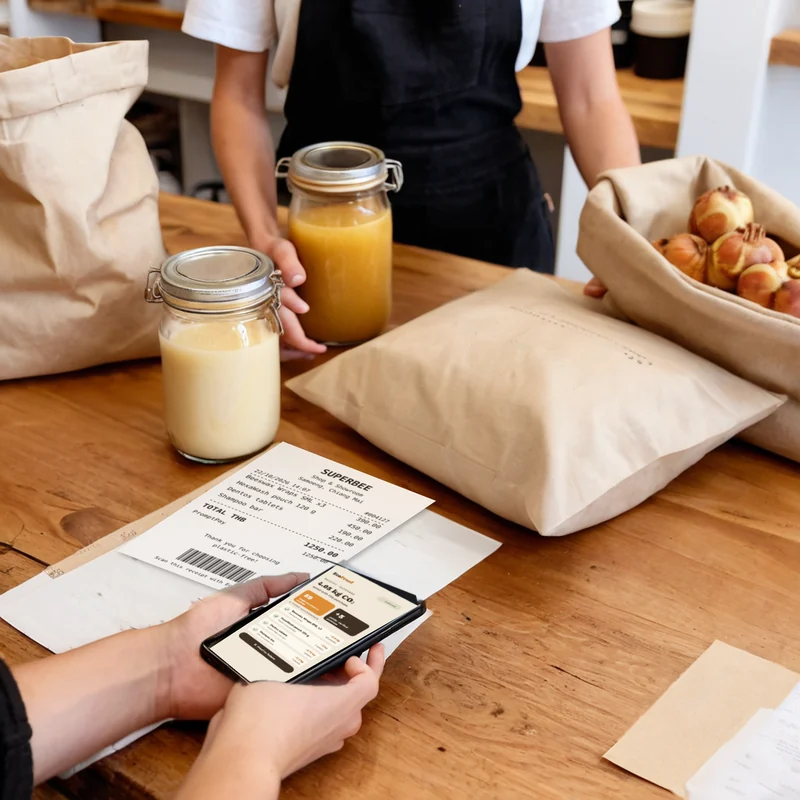
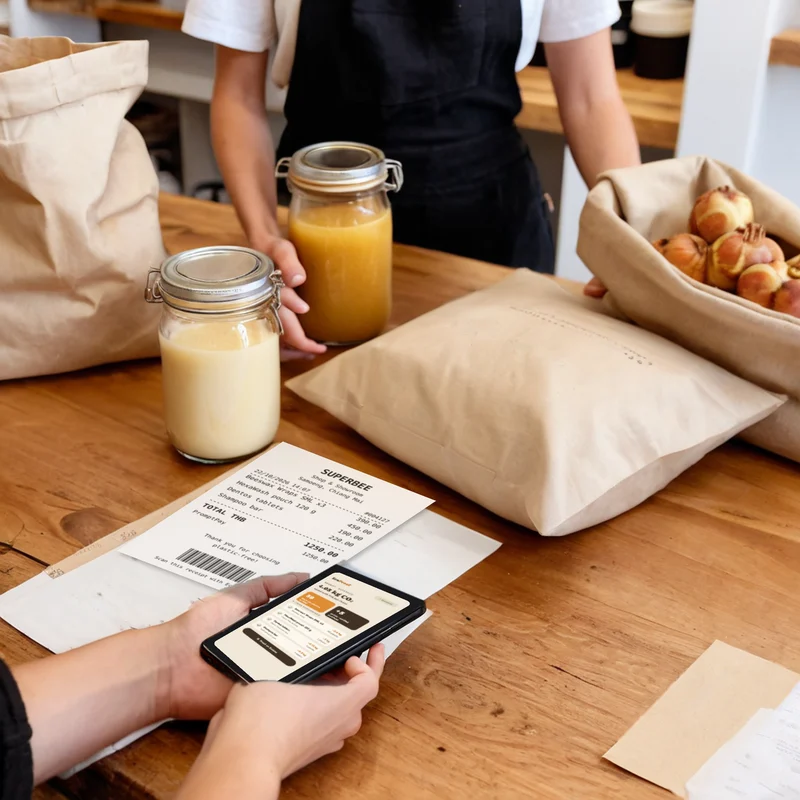
Landing pictures: screenshot sits inside the phone on the eco shop tile; hotel postcard stands upright on its holder
Claude-Session: https://claude.ai/code/session_01HWHP3iugw8gkvvKKS5vpBj

Changed region(s): [[0.25, 0.6875, 0.5312, 0.875]]

diff --git a/art/doors/v2/compose.py b/art/doors/v2/compose.py
@@ -4,7 +4,7 @@ the SuperBee receipt and the EcoProof screen onto the eco store counter (203, wi
 repainted as clean paper from a lighting fit of its own pixels before the card is printed on it (multiply). Corners read off gridded zoom
 crops. Usage: compose.py <hotel|restaurant|store>. Run with the WebUI venv python (numpy, cv2) → door_<name>.png (800x800)."""
 import numpy as np, cv2, pathlib, sys
-from PIL import Image
+from PIL import Image, ImageDraw
 D = pathlib.Path(__file__).parent
 CARD = Image.open(D/"../../steps/connect/card.png").convert("RGB")  # 1200x800, white
 SS = 2  # warp at 2x, downsample at the end
@@ -29,9 +29,21 @@ SCENES = {
               "receipt": [(362,565),(558,641),(348,781),(149,705)],
               "hands": [(0,700),(260,725),(420,735),(560,760),(560,1024),(0,1024)],  # where skin colour really is a hand (kraft paper reads as skin)
               "phone": [(440,716),(550,768),(322,886),(252,830)],  # the whole phone with its bezel, lies over the receipt
-              "screen": [(433,722),(535,775),(338,888),(268,830)],  # TL TR BR BL: portrait, top at the far end; BR runs under the fingers
-              "bezel": [(433,722),(535,775),(532,762),(404,712)]},  # the glass strip between the screen's top edge and the rim, painted as bezel
+              # the phone's glass, read off a gridded 4x zoom (TL TR BR BL: portrait, top at the far end; BR lies under the fingers)
+              "glass": [(430,725),(541,771),(337,888),(262,822)]},
 }
+
+def inset(quad, d):
+    """The quad with every edge moved inward by d pixels (outward if negative). Corners clockwise from top left."""
+    q = np.float64(quad); n = len(q); lines = []
+    for i in range(n):
+        p, r = q[i], q[(i+1) % n]; e = (r-p)/np.linalg.norm(r-p); nrm = np.array([-e[1], e[0]])  # inward for clockwise corners in image coordinates
+        lines.append((p + nrm*d, e))
+    out = []
+    for i in range(n):
+        (p1, e1), (p2, e2) = lines[i-1], lines[i]
+        t = np.linalg.solve(np.array([e1, -e2]).T, p2-p1)[0]; out.append(tuple(p1 + e1*t))
+    return out
 
 def quad_mask(shape, pts, s=1):
     m = np.zeros(shape[:2], np.uint8); cv2.fillPoly(m, [np.int32(np.round(np.array(pts)*s))], 255); return m
@@ -98,14 +110,17 @@ else:
     keep = cv2.GaussianBlur((sk & quad_mask(big.shape, S["hands"], SS)).astype(np.float32)/255, (0,0), 1.2)[..., None]
     phone = cv2.GaussianBlur(quad_mask(big.shape, S["phone"], SS).astype(np.float32)/255, (0,0), 1.2)[..., None]
     a = a*(1-np.maximum(keep, phone)); big = big*(1-a) + rgb*a
-    # 3. the EcoProof screen in the phone, under the fingertip
+    # 3. the EcoProof screen in the phone, under the fingertip. The glass is painted as the phone's own near-black first (a little past
+    #    its far edge, where the repainted hand left no rim), then the screen goes inside it with an even bezel and rounded corners.
+    body = cv2.GaussianBlur(quad_mask(big.shape, inset(S["glass"], -2.5), SS).astype(np.float32)/255, (0,0), 1.0)[..., None]*(1-keep)
+    big = big*(1-body) + np.float32([26, 26, 29])*body
     scr = Image.open(D/"screen.png").convert("RGB")
-    rgb, a = warp(scr, S["screen"], size)
+    quad = inset(S["glass"], 5.5)
+    rgb, _ = warp(scr, quad, size)
+    rnd = Image.new("L", scr.size, 0); ImageDraw.Draw(rnd).rounded_rectangle((0, 0, scr.width-1, scr.height-1), radius=round(scr.width*0.07), fill=255)
+    a = cv2.warpPerspective(np.asarray(rnd, np.float32), cv2.getPerspectiveTransform(np.float32([(0,0),(scr.width,0),(scr.width,scr.height),(0,scr.height)]), np.float32(quad)*SS), size, flags=cv2.INTER_LINEAR)[..., None]/255
     rgb = cv2.GaussianBlur(rgb, (0,0), 0.8)*0.95 + 10
     a = a*(1-keep); big = big*(1-a) + rgb*a
-    # 4. close the phone at the top: the glass strip above the screen becomes bezel, in the phone's own near-black
-    bz = cv2.GaussianBlur(quad_mask(big.shape, S["bezel"], SS).astype(np.float32)/255, (0,0), 1.0)[..., None]*(1-keep)
-    big = big*(1-bz) + np.float32([26, 26, 29])*bz
 
 out = Image.fromarray(big.clip(0,255).astype(np.uint8)).resize((800, 800), Image.LANCZOS)
 out.save(D/f"door_{key}.png"); print("wrote", f"door_{key}.png")

diff --git a/art/postcard/gen.py b/art/postcard/gen.py
@@ -14,6 +14,7 @@ PROMPTS = {
  "hotel": "photo of a calm boutique resort hotel room in northern Thailand, " + CARD + " on a teak bedside table, next to it a glass carafe of water and a glass, behind it a bed with crisp white linen and a window with a green garden view softly out of focus, soft morning light, " + COMMON,
  "hotel2": "close-up photo of a teak bedside table in a calm boutique resort hotel room in northern Thailand, on the table " + CARD + ", next to the card a glass carafe of water, behind it softly out of focus a bed with crisp white linen and a window with a green garden view, soft morning light, " + COMMON,
  "reception": "photo of the wooden reception desk of a boutique resort hotel in northern Thailand, " + CARD + ", beside it a brass service bell and a room key with a wooden tag, behind it the open lobby with rattan armchairs, tropical plants and a terrace with a green garden view softly out of focus, " + COMMON,
+ "reception2": "photo of the wooden reception desk of a boutique resort hotel in northern Thailand, sharply in focus in the foreground a single tall portrait format plain blank white postcard standing perfectly upright and vertical in the slot of a small low wooden block card holder, seen straight from the front at eye level, the empty white card is completely blank, nothing written on it, the card is large in the frame, beside it a brass service bell, behind it the open lobby with rattan armchairs, tropical plants and a terrace with a green garden view softly out of focus, " + COMMON,
  "store": "photo of the wooden counter of a small zero-waste eco shop, " + CARD + ", beside it glass refill jars and a folded cotton tote bag, behind it wooden shelves with jars, soap bars and brushes softly out of focus, " + COMMON,
 }
 NEG = "text, letters, writing, logo, qr code, barcode, icons, picture frame, photo frame, landscape format card, folded card, tent card, two cards, cartoon, illustration, painting, 3d render, cgi, blurry, low quality, deformed, hands, watermark, plastic bottles, green walls, neon"

diff --git a/art/postcard/compose.py b/art/postcard/compose.py
@@ -12,7 +12,7 @@ SCENES = {
     # scene file, a point on the blank card, the postcard to print, and optionally corners by hand (TL TR BR BL)
     "cafe": {"scene": "cafe_403.png", "at": (242, 640), "card": "card_demo-cafe_web.png"},
     "restaurant": {"scene": "restaurant_403.png", "at": (232, 620), "card": "card_demo-restaurant_web.png"},
-    "hotel": {"scene": "reception_426.png", "at": (440, 640), "card": "card_demo-hotel_web.png", "erase": [(383, 446, 28, 40)]},
+    "hotel": {"scene": "reception2_436.png", "at": (486, 580), "card": "card_demo-hotel_web.png"},
     "store": {"scene": "store_402.png", "at": (516, 520), "card": "card_demo-eco-shop_web.png"},
 }
 

diff --git a/CLAUDE.md b/CLAUDE.md
@@ -96,9 +96,9 @@ on Solana. For sustainable shops, cafés, markets and online brands.
   caches bust; current `v4`. A scroll parallax was tried and dropped (not seen as moving, blurred the strip). The Bee Guardian cutout (`public/landing/bee.webp`, from `art/v2/ranks/sentinel/sentinel_card.png`) peeks in. The
   card-fan hero (`components/landing/HeroArt.tsx`, `public/landing/cards/*.webp`, 2x of 300x420, from `art/v2/compositor/samples/`, SVG stamp
   rings) stays behind `NEXT_PUBLIC_LANDING_HERO=cards`. Paper grain and stamps are CSS. Buildings inpainted onto the island (`inpaint.py`,
-  `v3_*.py`) never matched; the island stays as generated. The earlier SD flat-lay hero (`art/hero-r1/`, `art/v2/hero/`) was dropped for mixing two styles; the owner-door photos (`public/landing/doors/v2/`). Since 2026-11-18 every picture of a place shows the real A6 postcard, not a bare QR card (Pola): `art/postcard/` holds the recipe. `gen.py <scene> <seeds>` renders epicrealismXL scenes with one blank portrait card on a wooden stand (café 403, restaurant 403, hotel reception 426, eco store 402 are the picks; a card on a hotel bedside table never stood up, so the hotel is a reception desk); the card is the app's own print of a local demo place (`brave --headless --print-to-pdf http://localhost:3000/place/<id>?size=a4`, `pdftoppm -r 150 -png`; local-only places demo-cafe, demo-restaurant, demo-hotel, demo-eco-shop), `web_qr.py` swaps its QR for one to https://ecoproof.app, and `compose.py <cafe|restaurant|hotel|store>` finds the blank card and multiplies the postcard onto it → `out_<key>.png`. In use: café = `steps/v2/connect.webp`, restaurant = `doors/v2/coffee.webp`, hotel = `doors/v2/hotel.webp`; the store one (`out_store.png`) is made but not placed. The store door keeps the earlier receipt photo
+  `v3_*.py`) never matched; the island stays as generated. The earlier SD flat-lay hero (`art/hero-r1/`, `art/v2/hero/`) was dropped for mixing two styles; the owner-door photos (`public/landing/doors/v2/`). Since 2026-11-18 every picture of a place shows the real A6 postcard, not a bare QR card (Pola): `art/postcard/` holds the recipe. `gen.py <scene> <seeds>` renders epicrealismXL scenes with one blank portrait card on a wooden stand (café 403, restaurant 403, hotel `reception2` 436, eco store 402 are the picks; a card on a hotel bedside table never stood up, so the hotel is a reception desk, and the card must stand upright and face the camera: a leaning one reads as a crooked print); the card is the app's own print of a local demo place (`brave --headless --print-to-pdf http://localhost:3000/place/<id>?size=a4`, `pdftoppm -r 150 -png`; local-only places demo-cafe, demo-restaurant, demo-hotel, demo-eco-shop), `web_qr.py` swaps its QR for one to https://ecoproof.app, and `compose.py <cafe|restaurant|hotel|store>` finds the blank card and multiplies the postcard onto it → `out_<key>.png`. In use: café = `steps/v2/connect.webp`, restaurant = `doors/v2/coffee.webp`, hotel = `doors/v2/hotel.webp`; the store one (`out_store.png`) is made but not placed. The store door keeps the earlier receipt photo
   (from `art/doors/v2/`: epicrealismXL scenes with blank surfaces, `gen.py`, restaurant seed 202, hotel 211, store 203 with the hand repainted off the
-  screen by `inpaint_hand.py` seed 306; `compose.py` prints the real QR card, the SuperBee receipt and the EcoProof screen from `assets.mjs` onto them; the café tile uses `coffee.webp`) and partner logos (`public/landing/partners/`, from
+  screen by `inpaint_hand.py` seed 306; the screen is placed from the phone's `glass` corners in `compose.py`: the glass is painted near-black, then the screenshot goes inside it with an even bezel and rounded corners; `compose.py` prints the real QR card, the SuperBee receipt and the EcoProof screen from `assets.mjs` onto them; the café tile uses `coffee.webp`) and partner logos (`public/landing/partners/`, from
   `art/partner/`) stay. Step images `public/landing/steps/v2/` (a new folder whenever a deployed picture changes, so caches bust): connect is the café postcard photo (above; the earlier QR-card composites live in `art/steps/connect/`), email is the plugin's own order-email stamp block (`art/steps/email/render.php` runs `EcoProof_Stamp::html` outside WordPress → `email.html`, screenshot with headless Brave at 520 wide, scale 2, cropped to 1040x1990), stamp is a screenshot from
   `../ecoproofai.stylebar.de/src/assets/screens/` (stamp collection), share is `/api/passport-card/<id>?format=square` rendered
   locally with `APP_URL=https://ecoproof.app` for the footer (local Warden passport `DGc2…`). Share images (`lib/beeCardOg.tsx`,
